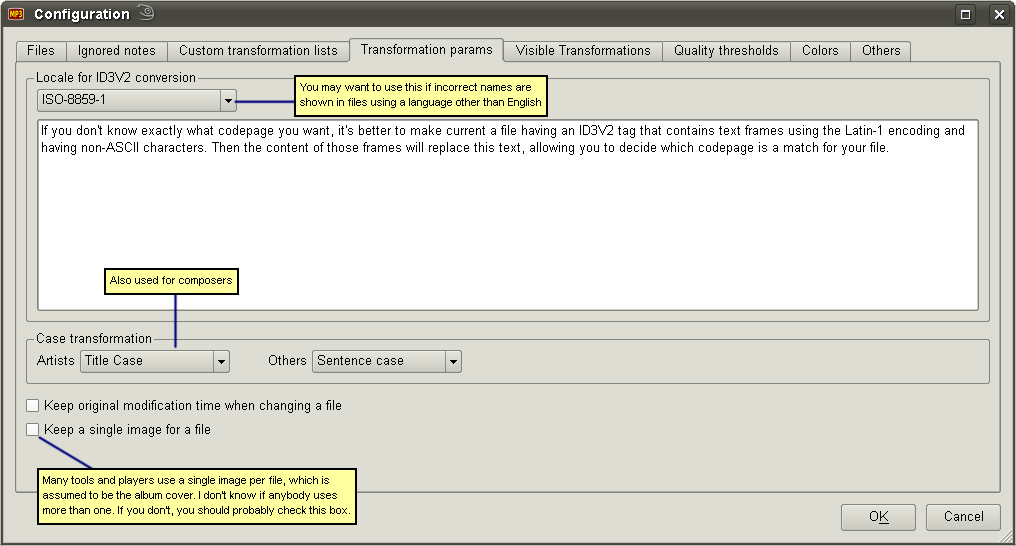
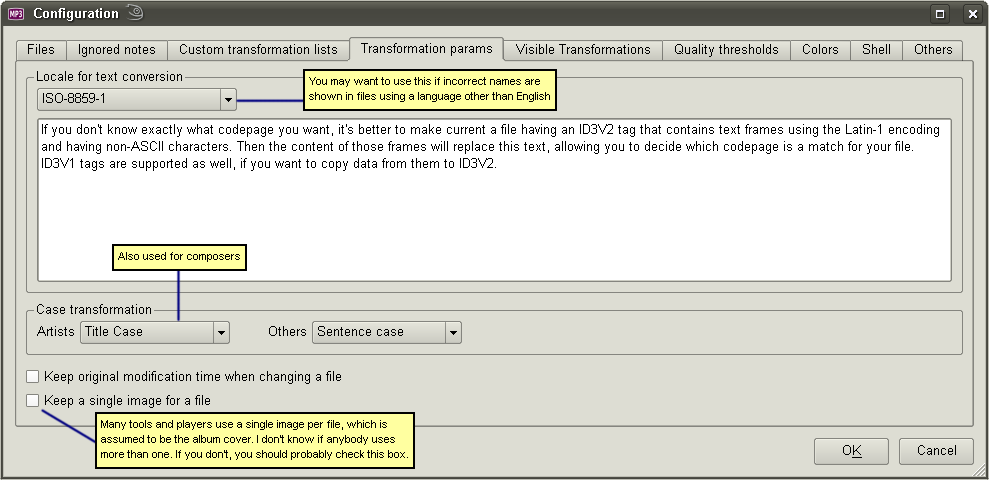
Updated doc for ID3V1 text conversion

Changed region(s): [[0.0, 0.0, 1.0, 1.0], [0.9707, 0.625, 1.0, 0.6875]]

diff --git a/mp3diags/doc/html/290_config_transf_params.html b/mp3diags/doc/html/290_config_transf_params.html
@@ -68,6 +68,10 @@ Here you have the global parameters that are used by transformations.
 Names that are stored in ID3V2.3.0 are supposed to be either 8bit Latin-1 or 16bit Unicode UTF16 (ID3V2.4.0 has 2 more formats, of which only one is currently supported by MP3 Diags.) However, some tools use the 8bit option with other locales on frames that are declared Latin-1, when they should be using UTF16. Although those tools display the names correctly, others don't, especially if the file is moved to another computer. The reverse might happen as well: correct files using Latin-1 might appear to have incorrect frames, because they are interpreted according to some other locale. There is a transformation that does conversions from 8bit to UTF16, and it is here that you specify the locale to be used in the process.
 </div>
 
+<div class="FreeNormalText RegFnt ChpCol1">
+The locale setting is also used by another transformation, which copies song information from ID3V1 tags to ID3V2.
+</div>
+
 
 <div class="FreeNormalText RegFnt ChpCol2">
 By not allowing more than 1 image per file you make sure that all the players see the same image. OTOH, if you have files containing more than 1 image, you'll probably want to keep them all, in which case the "Keep a single image" option should be unchecked.
